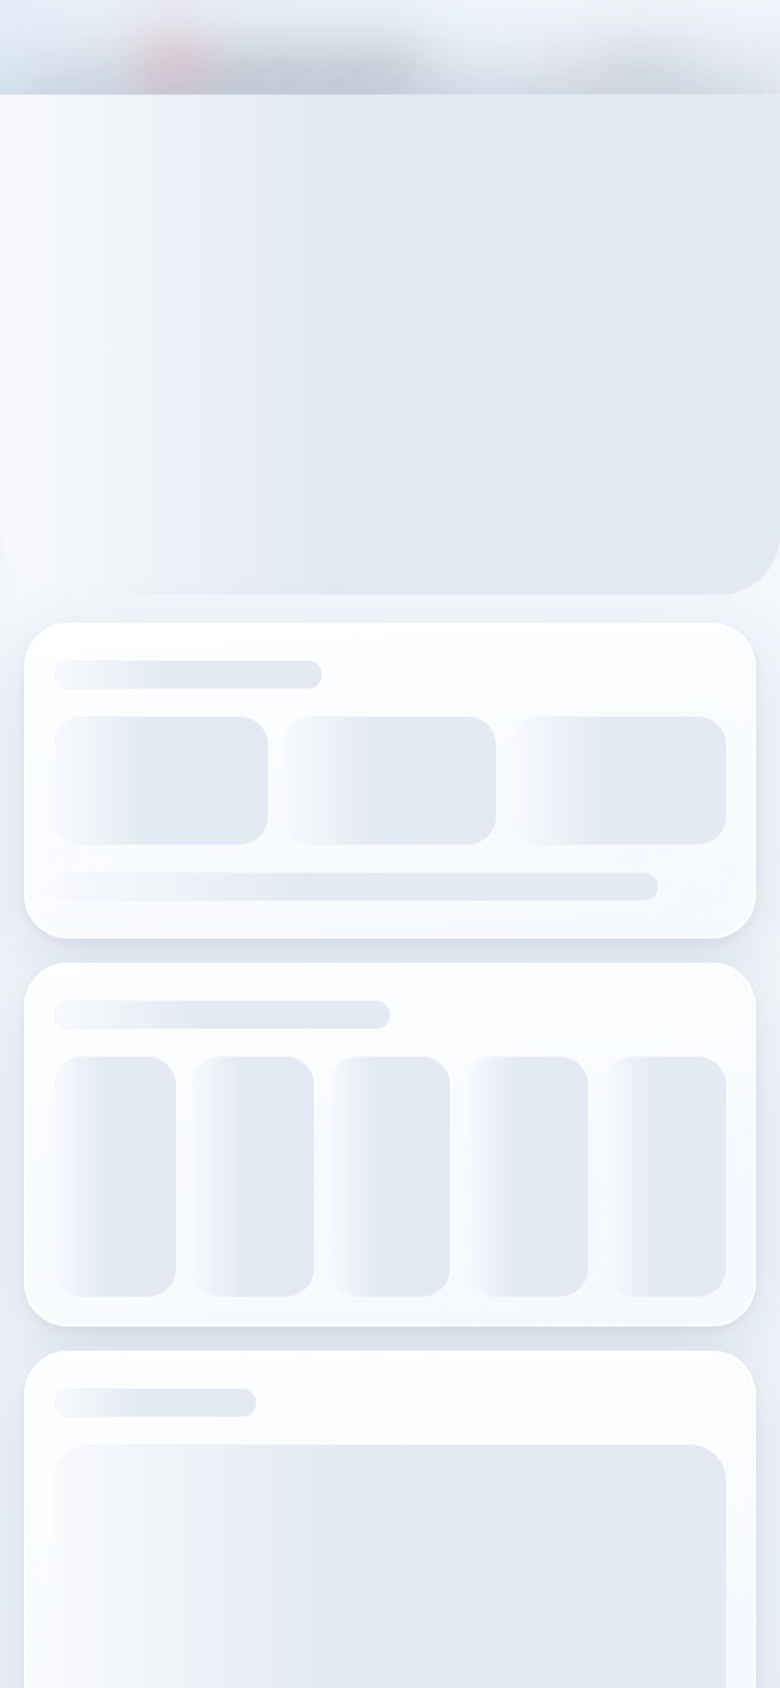
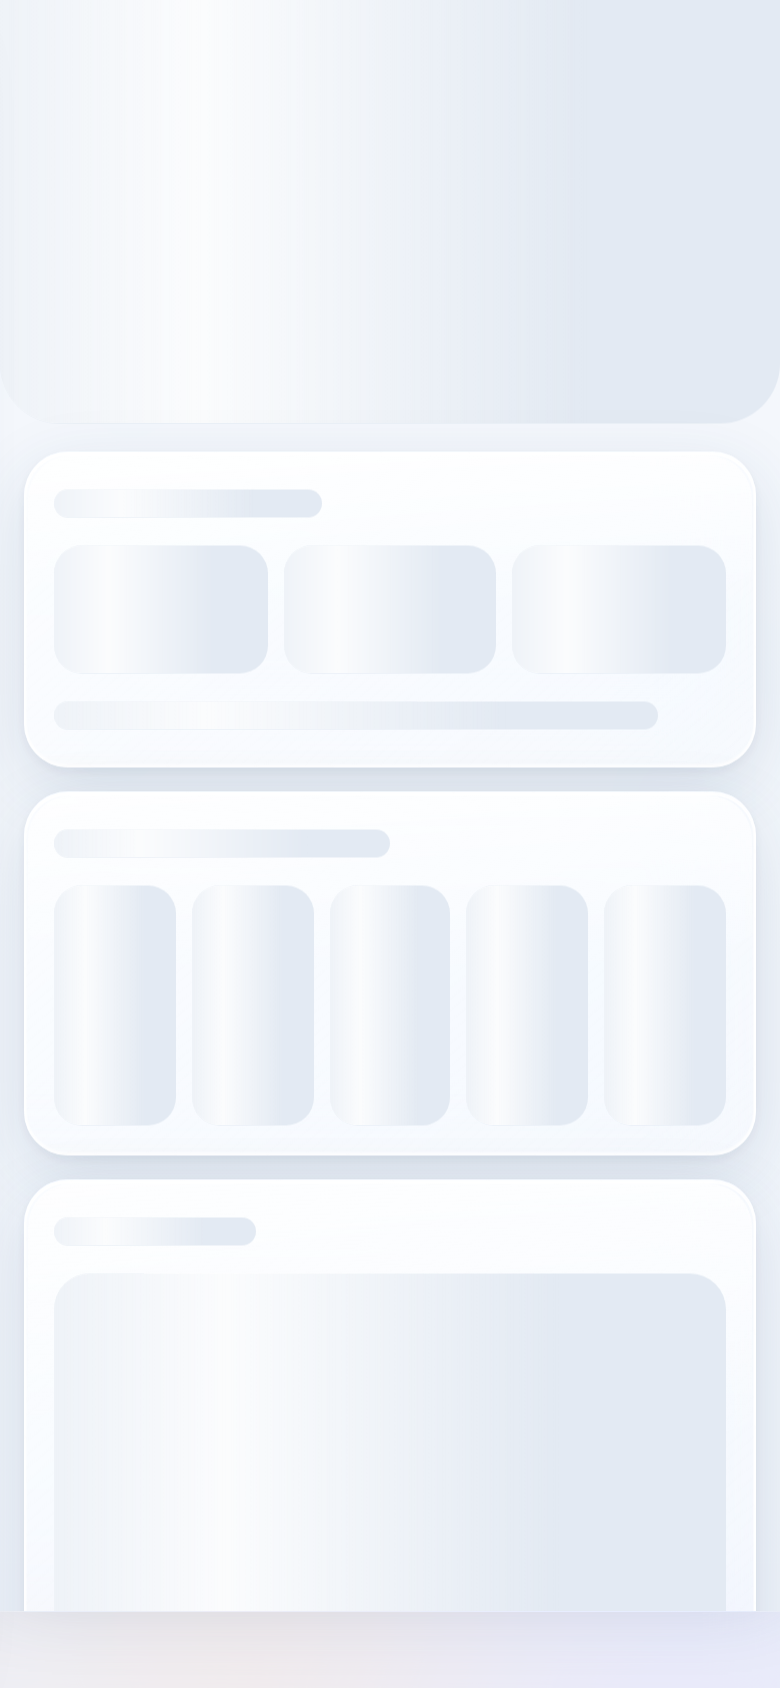
詳細画面の背景タップで Google マップを開くように
- ヒーロー背景全体を「山名 都道府県」の Google マップ検索リンクに（新しいタブ、括弧書きは除外）
- 上部中央に「Googleマップで見る」の目印、戻る・お気に入りボタンは従来どおり
- E2E にリンク先と背景タップ位置の確認を追加

Claude-Session: https://claude.ai/code/session_017srsqCqyUnvrGkJVuN8LTR

diff --git a/public/js/app.js b/public/js/app.js
@@ -492,6 +492,13 @@ function detailSkeleton() {
 
 const WINTER_CLIMB = { ok: ['冬も登れる', 'ok'], snow: ['雪山装備が必要', 'snow'], closed: ['冬季閉山', 'closed'] };
 
+/** Google マップでその山を開く URL（「山名 都道府県」で検索。括弧書きは除く） */
+function mapsPlaceUrl(m) {
+  const name = m.name.replace(/（.*?）/g, '').trim();
+  const pref = m.pref.split('・')[0];
+  return `https://www.google.com/maps/search/?api=1&query=${encodeURIComponent(`${name} ${pref}`)}`;
+}
+
 function detailHtml(m) {
   const mo = currentMonth();
   const fav = store.isFav(m.id);
@@ -503,6 +510,9 @@ function detailHtml(m) {
   <header class="hero">
     <div class="hero-art">${pic(m, { w: 390, h: 260 }, 'hero')}</div>
     <div class="hero-shade"></div>
+    <a class="hero-link" href="${mapsPlaceUrl(m)}" target="_blank" rel="noopener" aria-label="${esc(m.name)}をGoogleマップで見る（新しいタブ）">
+      <span class="hero-maps glass">${icon('pin')}Googleマップで見る</span>
+    </a>
     <button type="button" class="hero-btn dt-back glass rp" aria-label="戻る"><svg viewBox="0 0 24 24" aria-hidden="true"><path d="M15 5l-7 7 7 7" fill="none" stroke="currentColor" stroke-width="2.4" stroke-linecap="round" stroke-linejoin="round"/></svg></button>
     <button type="button" class="hero-btn dt-fav glass rp" aria-pressed="${fav}" aria-label="お気に入り">${icon('star', '', fav)}</button>
     ${PHOTOS[m.id] ? `<p class="hero-credit">${photoCredit(m)}</p>` : ''}

diff --git a/public/css/app.css b/public/css/app.css
@@ -519,3 +519,13 @@ small { font-size: 0.78em; }
 .brand-seal svg { width: 21px; height: 21px; display: block; }
 .drawer-head .brand-seal svg { width: 24px; height: 24px; }
 .drawer-head .brand { margin-bottom: 10px; }
+
+/* 詳細ヒーロー：背景タップで Google マップへ */
+.hero-link { position: absolute; inset: 0; z-index: 1; display: block; -webkit-tap-highlight-color: transparent; }
+.hero-link:active ~ .hero-text { opacity: 0.85; }
+.hero-link:focus-visible { outline-offset: -4px; border-radius: 0 0 30px 30px; }
+.hero-text { pointer-events: none; z-index: 1; }
+.hero-maps { position: absolute; top: calc(var(--sat) + 20px); left: 50%; transform: translateX(-50%); display: inline-flex; align-items: center; gap: 5px;
+  height: 30px; padding: 0 12px; border-radius: 999px; font-size: 12px; font-weight: 800; color: var(--ink); white-space: nowrap; }
+.hero-maps .ico { width: 15px; height: 15px; color: var(--danger); }
+.hero-link:active .hero-maps { transform: translateX(-50%) scale(0.95); }

diff --git a/goal/REPORT.md b/goal/REPORT.md
@@ -1,7 +1,7 @@
 # 山ヤクザ E2E テストレポート
 
-- 実行日時：2026/11/18 21:08:06（JST）
-- 結果：**16/16 合格** ✅（139.7秒）
+- 実行日時：2026/11/18 21:19:06（JST）
+- 結果：**16/16 合格** ✅（135.5秒）
 - ブラウザ：Google Chrome 153.0.8010.12（/usr/bin/google-chrome）・ヘッドレス
 - 端末エミュレーション：390×844 / deviceScaleFactor 2 / isMobile / hasTouch / ja-JP / Asia/Tokyo
 - サーバー：`scripts/dev-server.mjs`（src/worker.js を Node で実行）`MOCK_UPSTREAM=1`（フィクスチャ：goal/fixtures/upstream.json）。テスト14は `MOCK_WEATHER_FAIL=1` のサーバーを使用
@@ -11,22 +11,22 @@
 
 | # | テスト | 結果 | 時間 | 詳細 |
 |---|---|---|---|---|
-| 1 | 起動直後に検索欄へフォーカスし「たかお」で高尾山が先頭 | ✅ PASS | 2.3s |  |
-| 2 | 起動スケルトンが表示されてから消える | ✅ PASS | 1.2s | スケルトン表示〜消失: 約392ms（入力時スケルトン表示中=true） |
-| 3 | 検索：タカオ／takao／八ヶ岳／ふじ／北海道・該当なし・クリア | ✅ PASS | 3.6s | 全219座 |
-| 4 | 絞り込み：初心者向け（難易度2以下）・百名山（100座）・出発地から近い順 | ✅ PASS | 7.8s | 全219座 → 初心者向け100座・百名山100座・近い順の先頭「高尾山」 |
-| 5 | 詳細：スケルトン→難易度・標準タイム・適期12ヶ月・登山指数ABCAB・てんくらリンク | ✅ PASS | 6.6s | 難易度初級・適期6/12・指数ABCAB |
-| 6 | 地図：S/Gマーカー・ルート線・タイル要求・2点が収まる・ドラッグ・ズーム | ✅ PASS | 8.5s | ズーム9・タイル要求18回（ドラッグ後+12）・道路 約61km（目安） |
-| 7 | 交通費：夏→冬で車が上がる・スタッドレス注記・冬季注意・フリック切替 | ✅ PASS | 11.4s | 車 ¥17,230 → ¥17,900（冬） |
-| 8 | 富士山：冬は車・公共交通とも利用不可、夏は通行料の注記 | ✅ PASS | 8.1s |  |
-| 9 | 出発地：まつもと→松本駅でヘッダー・地図・交通費が変化／住所でも設定・リロード後も保持 | ✅ PASS | 13.5s | 槍ヶ岳 車 東京¥21,920→松本¥5,580 / 公共交通 ¥18,440→¥5,320 |
-| 10 | 履歴：開いた順・右フリックでお気に入り・左フリックで削除→元に戻す・タップで詳細 | ✅ PASS | 20.0s |  |
-| 11 | ページャ横フリックでタブ切替（検索⇔履歴）・インジケーター追従 | ✅ PASS | 5.3s | タブ2つ・左右フリックで切替 |
+| 1 | 起動直後に検索欄へフォーカスし「たかお」で高尾山が先頭 | ✅ PASS | 2.0s |  |
+| 2 | 起動スケルトンが表示されてから消える | ✅ PASS | 1.1s | スケルトン表示〜消失: 約389ms（入力時スケルトン表示中=true） |
+| 3 | 検索：タカオ／takao／八ヶ岳／ふじ／北海道・該当なし・クリア | ✅ PASS | 3.5s | 全219座 |
+| 4 | 絞り込み：初心者向け（難易度2以下）・百名山（100座）・出発地から近い順 | ✅ PASS | 7.4s | 全219座 → 初心者向け100座・百名山100座・近い順の先頭「高尾山」 |
+| 5 | 詳細：スケルトン→難易度・標準タイム・適期12ヶ月・登山指数ABCAB・てんくらリンク | ✅ PASS | 5.9s | 難易度初級・適期6/12・指数ABCAB |
+| 6 | 地図：S/Gマーカー・ルート線・タイル要求・2点が収まる・ドラッグ・ズーム | ✅ PASS | 8.2s | ズーム9・タイル要求18回（ドラッグ後+12）・道路 約61km（目安） |
+| 7 | 交通費：夏→冬で車が上がる・スタッドレス注記・冬季注意・フリック切替 | ✅ PASS | 11.2s | 車 ¥17,230 → ¥17,900（冬） |
+| 8 | 富士山：冬は車・公共交通とも利用不可、夏は通行料の注記 | ✅ PASS | 8.3s |  |
+| 9 | 出発地：まつもと→松本駅でヘッダー・地図・交通費が変化／住所でも設定・リロード後も保持 | ✅ PASS | 13.8s | 槍ヶ岳 車 東京¥21,920→松本¥5,580 / 公共交通 ¥18,440→¥5,320 |
+| 10 | 履歴：開いた順・右フリックでお気に入り・左フリックで削除→元に戻す・タップで詳細 | ✅ PASS | 18.2s |  |
+| 11 | ページャ横フリックでタブ切替（検索⇔履歴）・インジケーター追従 | ✅ PASS | 5.4s | タブ2つ・左右フリックで切替 |
 | 12 | ハンバーガー：開閉・aria-expanded・履歴全削除→元に戻す・説明シート・Esc/背景タップで閉じる | ✅ PASS | 15.9s |  |
-| 13 | ブラウザの戻るで詳細が閉じる・#m-yari の直リンクで詳細が開く | ✅ PASS | 10.8s |  |
-| 14 | 気象APIが落ちてもエラー表示と公式リンクが出る | ✅ PASS | 4.8s |  |
+| 13 | ブラウザの戻るで詳細が閉じる・#m-yari の直リンクで詳細が開く | ✅ PASS | 10.3s |  |
+| 14 | 気象APIが落ちてもエラー表示と公式リンクが出る | ✅ PASS | 4.6s |  |
 | 15 | Worker API の入出力（health / 400 / weather算出 / geocode / 404 / 405） | ✅ PASS | 0.0s | health/400×7/weather ABCAB+キャッシュHIT/geocode/404/405×3/上流失敗502 |
-| 16 | 詳細・全タブ・bodyで横スクロールがはみ出さない | ✅ PASS | 19.8s |  |
+| 16 | 詳細・全タブ・bodyで横スクロールがはみ出さない | ✅ PASS | 19.4s |  |
 
 ## スクリーンショット（goal/screenshots/）
 
